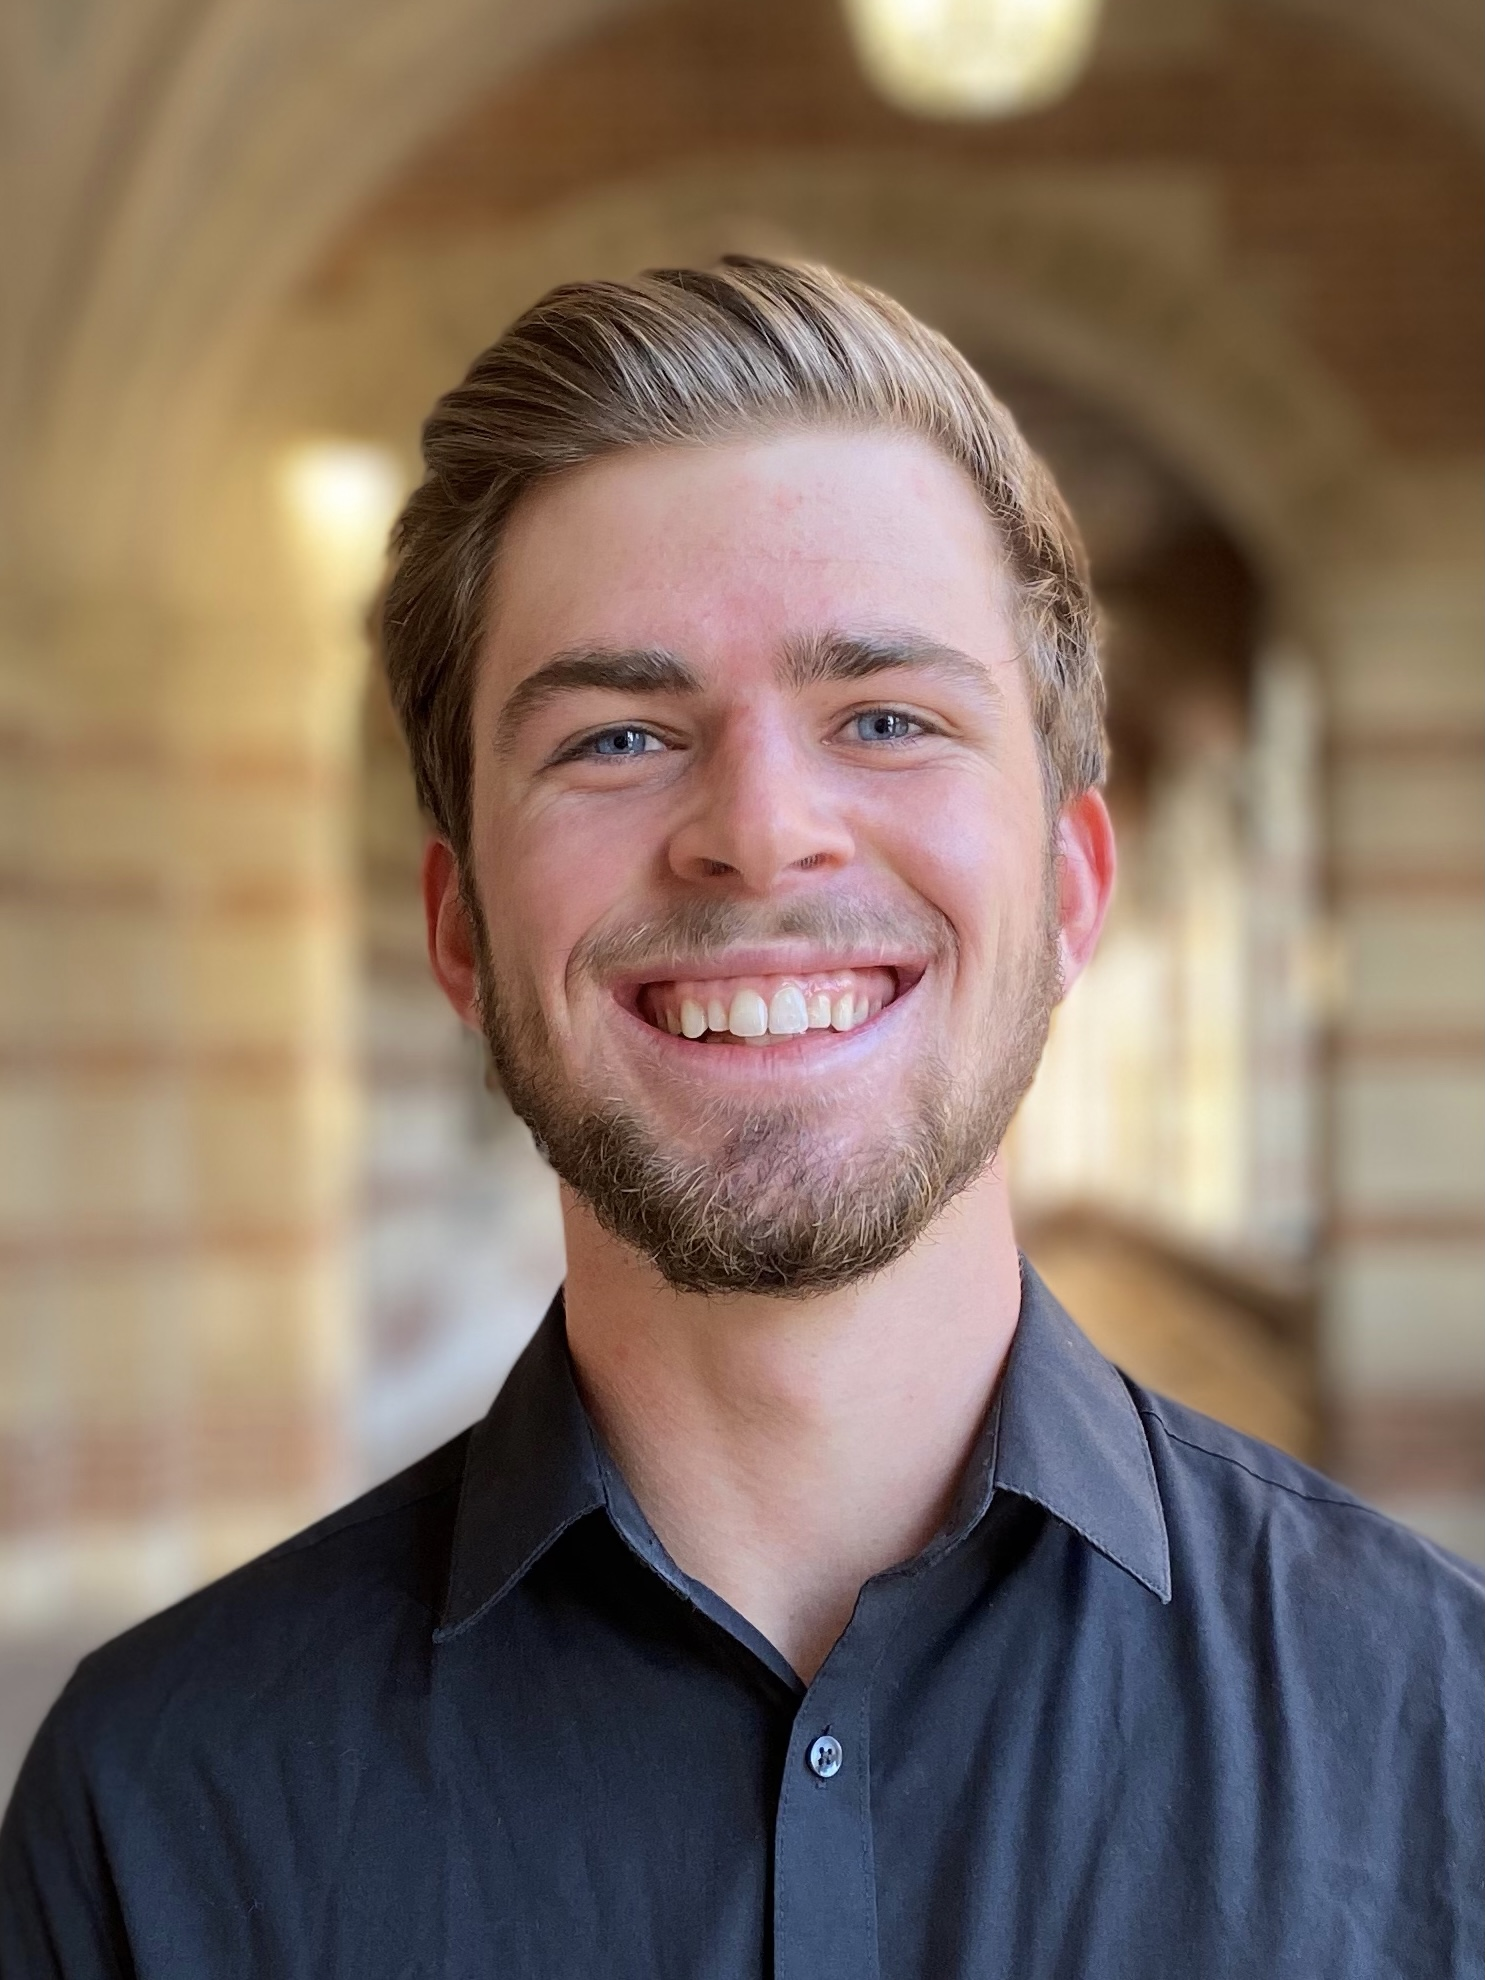
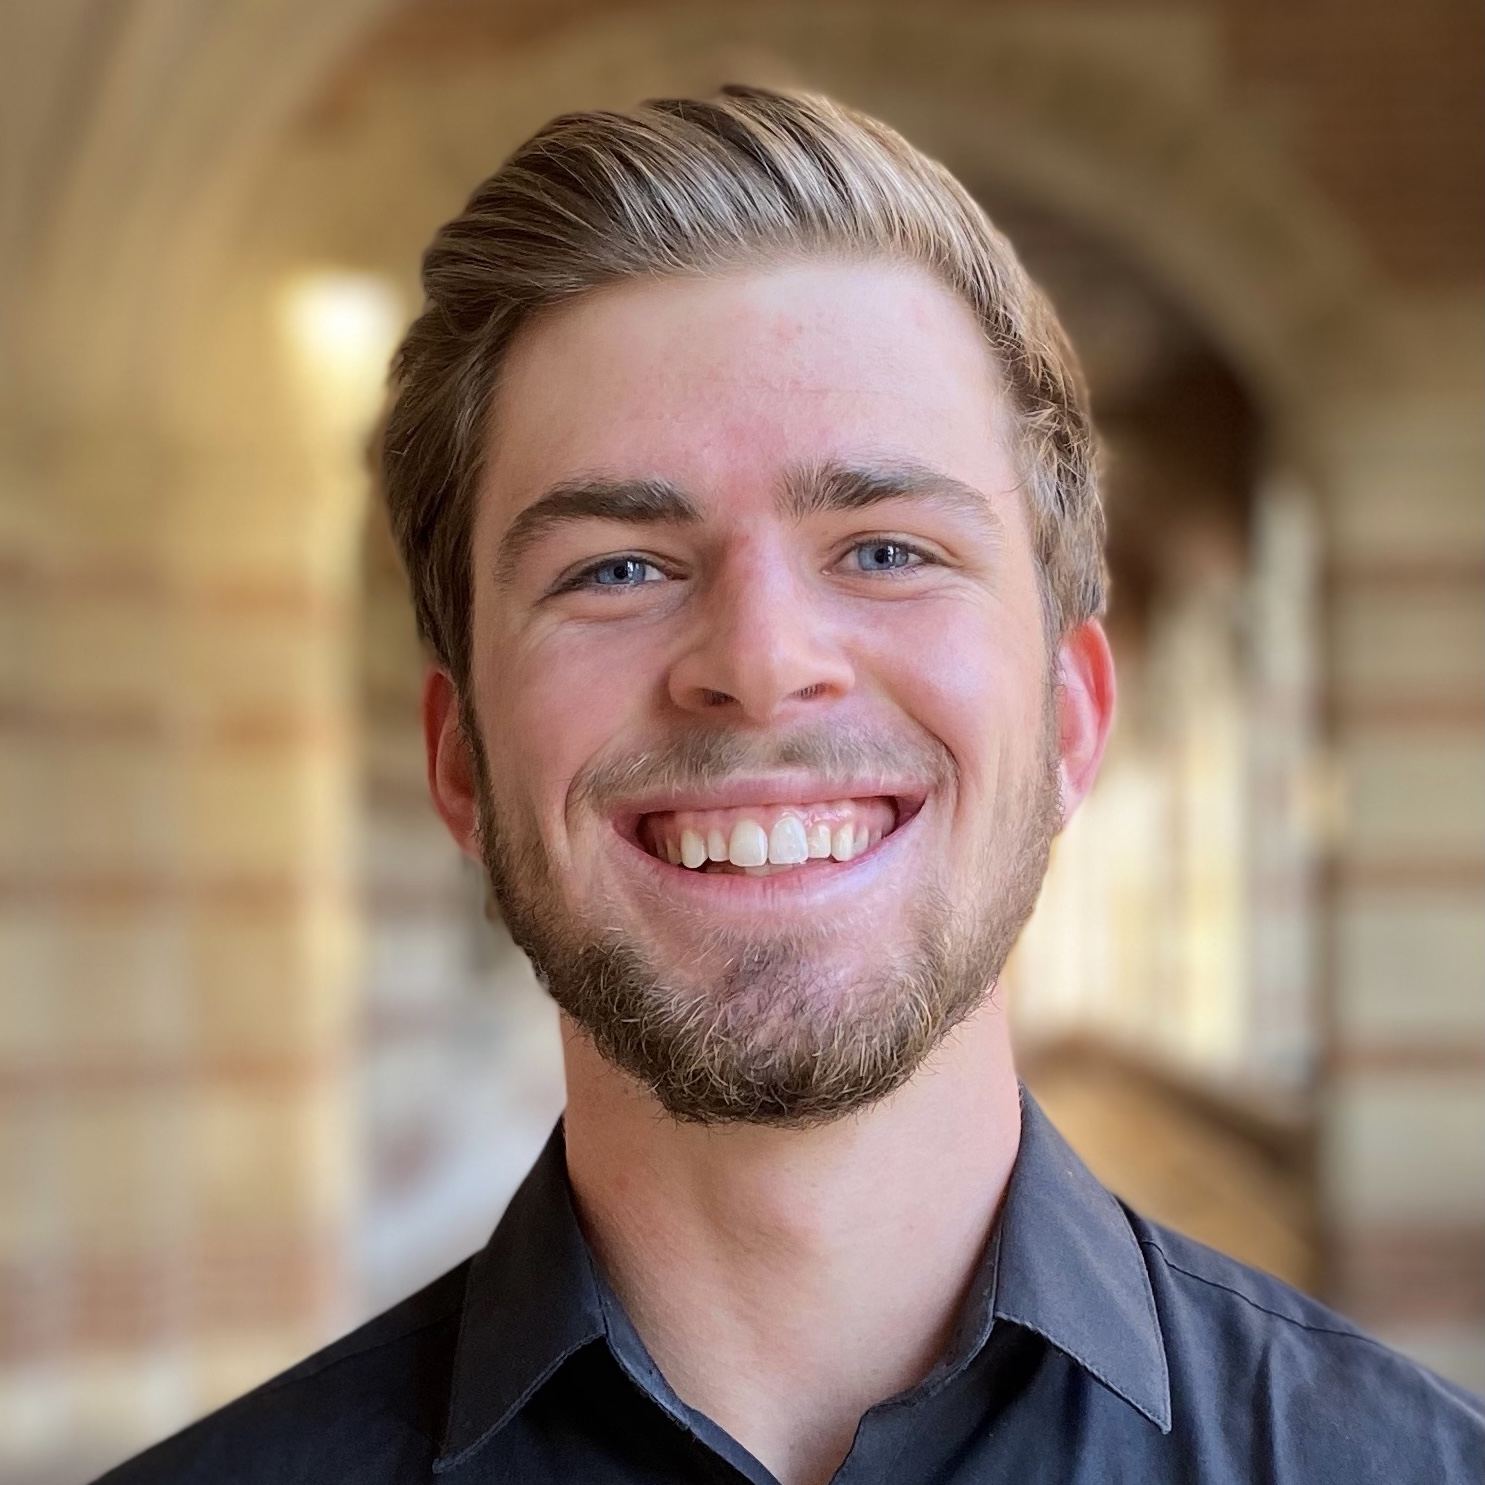
Circular headshot, sticky navbar, improved scroll

diff --git a/scripts/scroll.js b/scripts/scroll.js
@@ -1,27 +1,29 @@
+const yOffset = -65;
+
 const aboutButton = document.querySelector('.js-about-button');
 const aboutSection = document.querySelector('.js-about-section');
 
 aboutButton.addEventListener('click', () => {
-  aboutSection.scrollIntoView({behavior: "smooth", block: "start", inline: "nearest"});
+  window.scrollTo({top: aboutSection.getBoundingClientRect().top + window.pageYOffset + yOffset, behavior: 'smooth'});
 });
 
 const skillsButton = document.querySelector('.js-skills-button');
 const skillsSection = document.querySelector('.js-skills-section');
 
 skillsButton.addEventListener('click', () => {
-  skillsSection.scrollIntoView({behavior: "smooth", block: "start", inline: "nearest"});
+  window.scrollTo({top: skillsSection.getBoundingClientRect().top + window.pageYOffset + yOffset, behavior: 'smooth'});
 });
 
 const projectsButton = document.querySelector('.js-projects-button');
 const projectsSection = document.querySelector('.js-projects-section');
 
 projectsButton.addEventListener('click', () => {
-  projectsSection.scrollIntoView({behavior: "smooth", block: "start", inline: "nearest"});
+  window.scrollTo({top: projectsSection.getBoundingClientRect().top + window.pageYOffset + yOffset, behavior: 'smooth'});
 });
 
 const contactButton = document.querySelector('.js-contact-button');
 const contactSection = document.querySelector('.js-contact-section');
 
 contactButton.addEventListener('click', () => {
-  contactSection.scrollIntoView({behavior: "smooth", block: "start", inline: "nearest"});
+  window.scrollTo({top: contactSection.getBoundingClientRect().top + window.pageYOffset + yOffset, behavior: 'smooth'});
 });

diff --git a/styles/navbar.css b/styles/navbar.css
@@ -4,7 +4,9 @@ nav {
   justify-content: center;
   align-items: center;
   height: 65px;
-  border-radius: 18px 18px 0px 0px;
+  border-radius: 18px;
+  position: sticky;
+  top: 0px;
 }
 
 .nav-button {
@@ -27,5 +29,5 @@ nav {
 }
 
 .nav-button:active {
-  background-color: rgb(244, 244, 244);
+  background-color: rgb(246, 246, 246);
 }

diff --git a/styles/styles.css b/styles/styles.css
@@ -7,7 +7,7 @@ body {
 
 main {
   margin: 100px 100px;
-  padding-bottom: 5px;
+  padding-bottom: .1px;
   background-color: white;
   border-radius: 20px;
 }
@@ -49,7 +49,7 @@ main {
 
 .headshot {
   width: 300px;
-  border-radius: 20px;
+  border-radius: 150px;
 }
 
 .skills {
